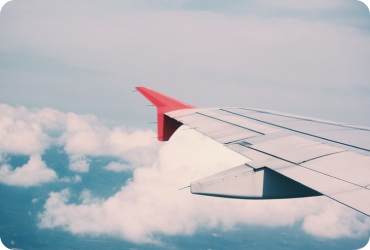
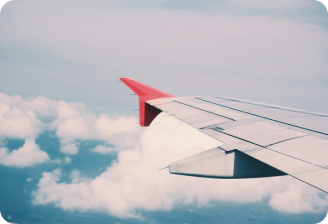
removed tranparency

diff --git a/styles.css b/styles.css
@@ -141,13 +141,12 @@ header img{
     margin-left: 0px;
     height: 100%;
     background-color: var(--white);
-    background: rgba(255, 254, 254, 0.9);
     position: fixed;
     z-index: 100;
     flex-direction: column;
     align-items: flex-start;
     padding: 20px;
-    overflow-y: auto;
+    overflow-y: hidden;
     box-shadow: -2px 0 5px rgba(0, 0, 0, 0.5);
     transform: translateX(100%);
     transition: transform 0.3s ease;
@@ -335,8 +334,11 @@ header img{
 .posts{
     padding-top: 50px;
     justify-self: center;
-    max-width: 360px;
+    max-width: 325px;
     margin-bottom: -50px;  
+    margin-left: 15px;
+    margin-right: 15px;
+    box-shadow: rgba(0, 0, 0, 0.5);
 }
 .posts h1{
     text-align: center;
@@ -349,7 +351,7 @@ header img{
 }
 .time img{
     position: relative;
-    left: 55px;
+    left: 38px;
 }
 .time span{
     color: var(--blue);
